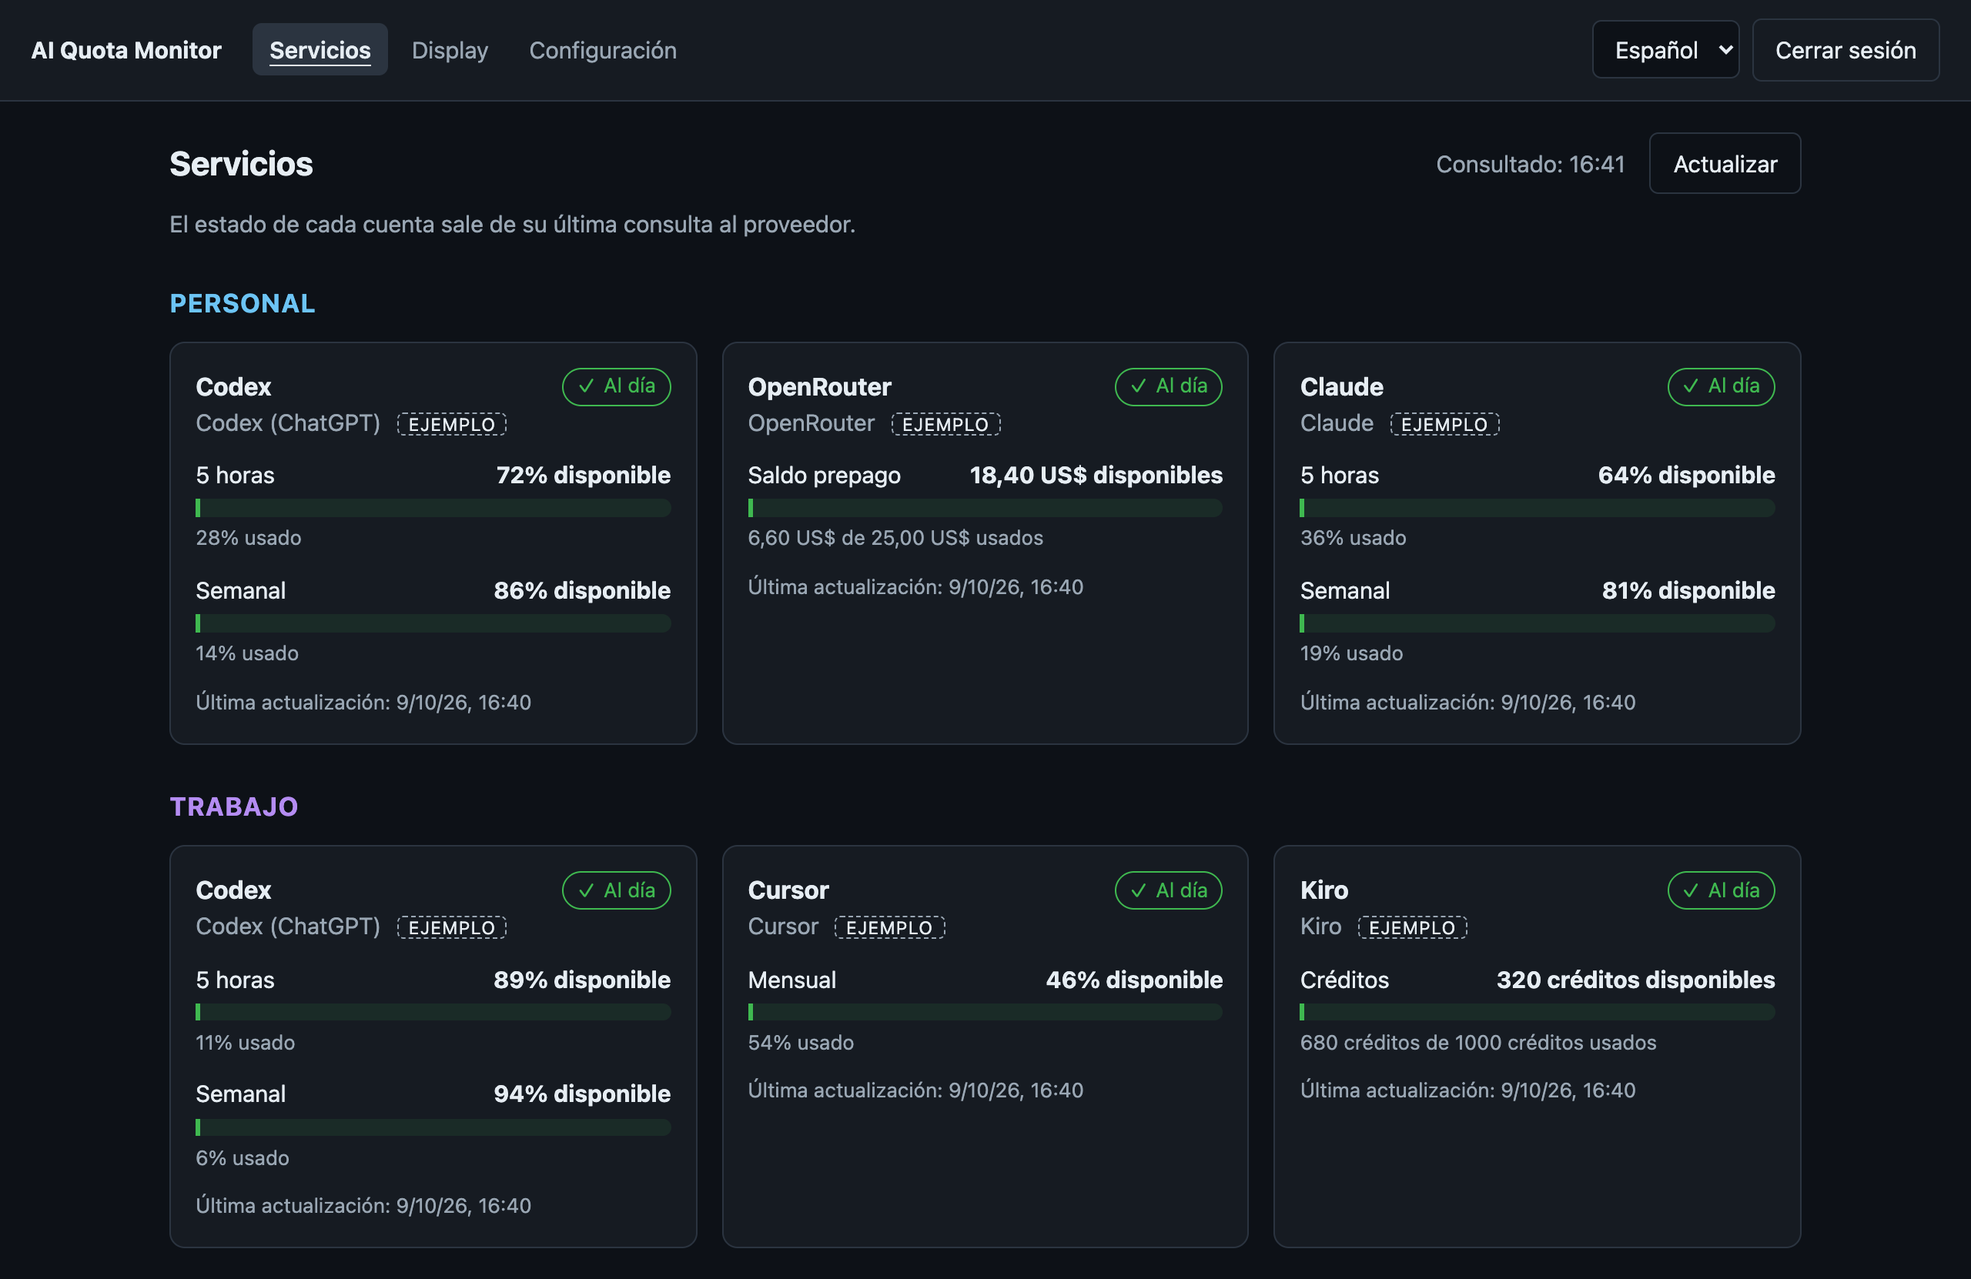
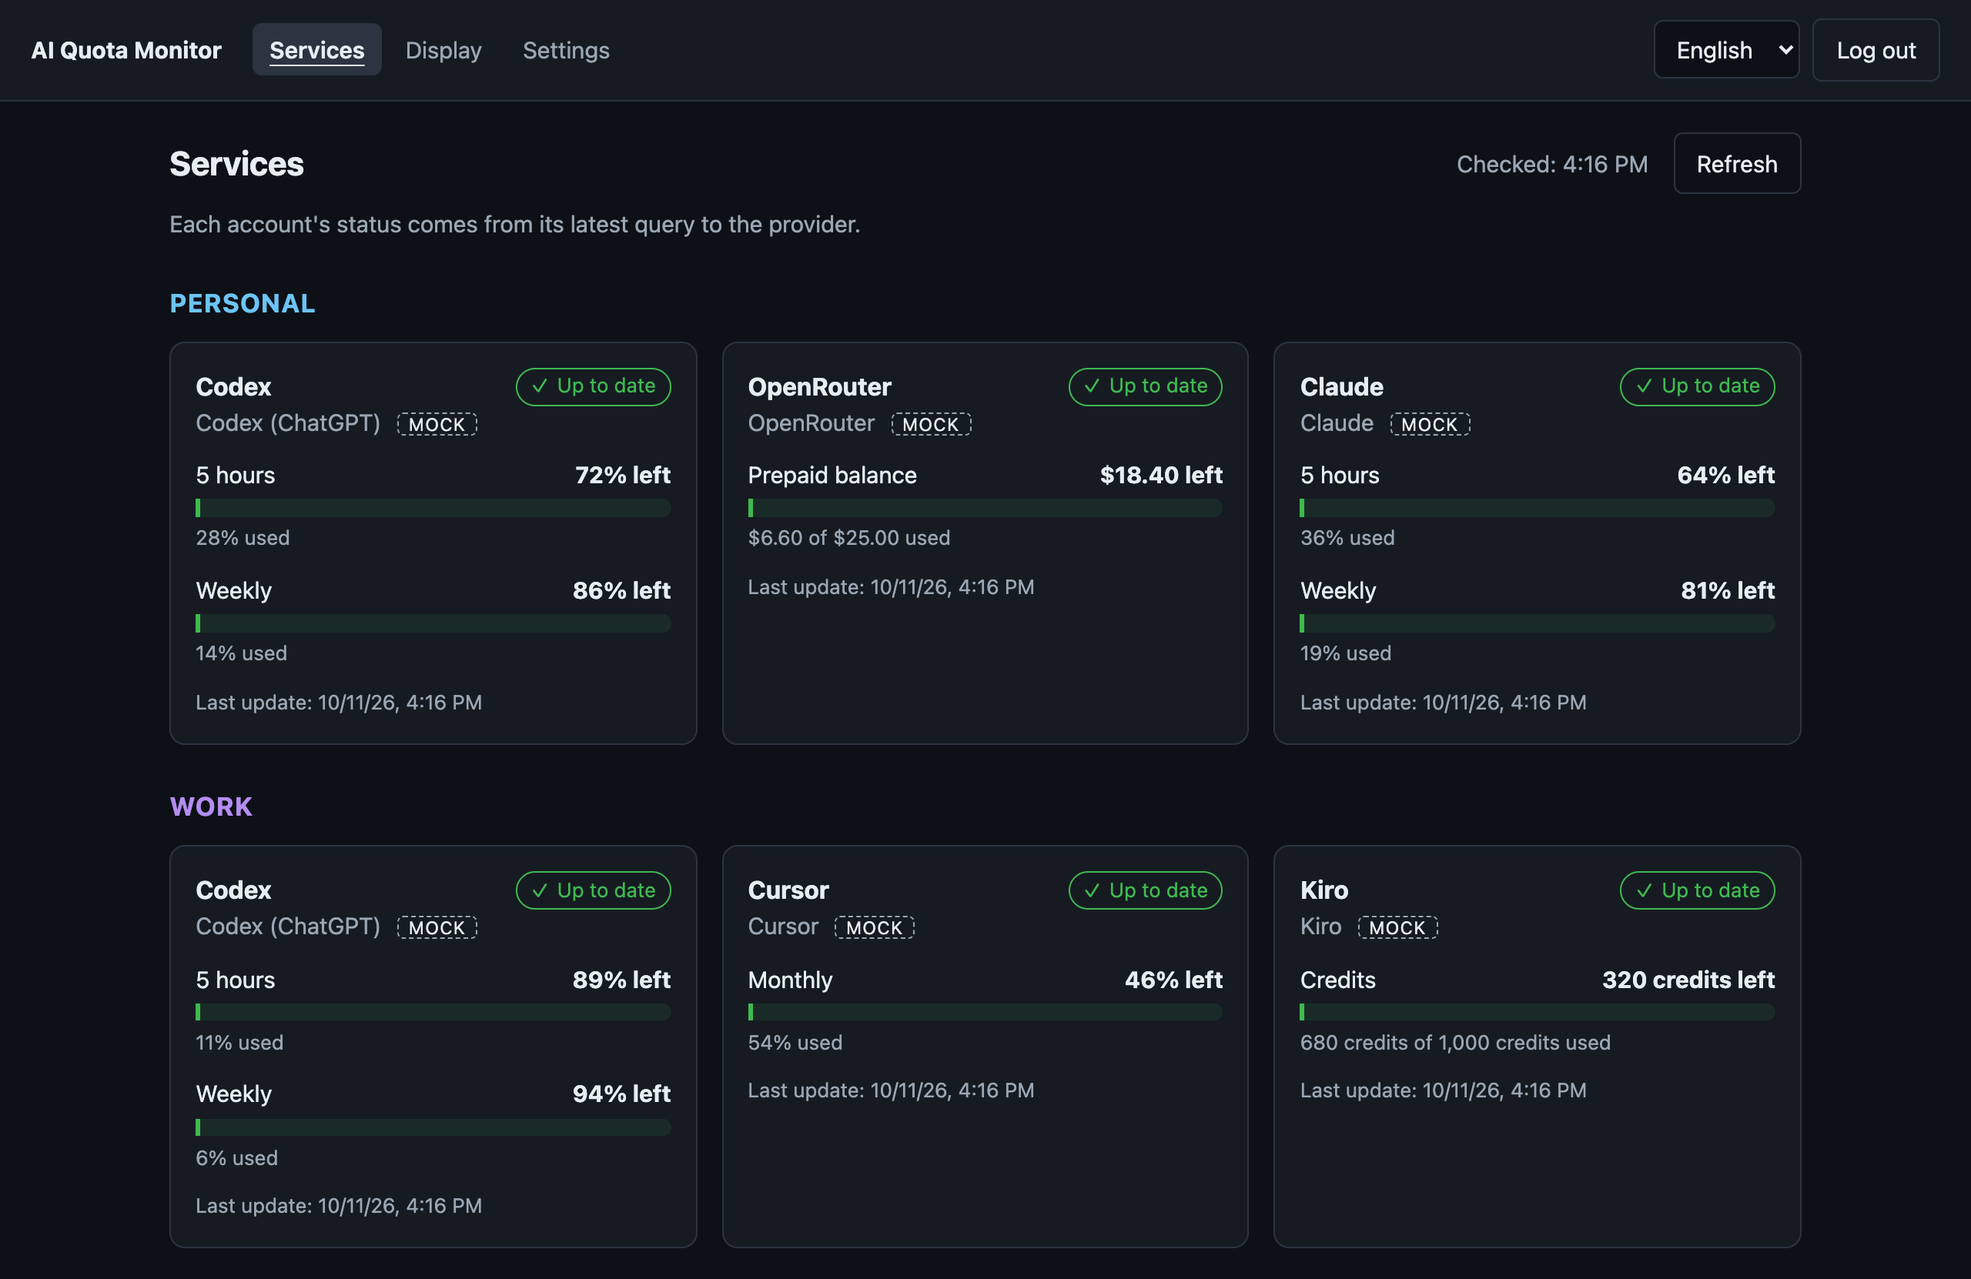
feat: add update model

diff --git a/enclosure/source/generate_model.py b/enclosure/source/generate_model.py
@@ -27,7 +27,9 @@ USB_HEIGHT=8.8
 USB_Z=FRONT+6.0
 USB_RIM_BACK=USB_Z+USB_HEIGHT/2+2.4
 LIGHT_Z,LIGHT_H = 5.2,1.6
-TILT_DEG = 12.0
+TILT_DEG = 25.0
+FOOT_LEVEL = 28.0
+SUPPORT_DEPTH = 36.0
 SLOPE = math.tan(math.radians(TILT_DEG))
 SHEAR = [[1,0,0,0],[0,1,SLOPE,0],[0,0,1,0]]
 
@@ -49,14 +51,12 @@ for side in [-1,1]:
 # Reinforced USB surround extends 2 mm beyond right arm.
 shape += box(-34,-30.5,-9,9,2.5,USB_RIM_BACK)
 for x in [-18,-6,6,18]:
-    shape += box(x-3,x+3,-24,-14.5,0,D)
+    shape += box(x-3,x+3,-FOOT_LEVEL,-14.5,0,D)
 # Rear foot joins all legs at their base; assembled support depth 28 mm.
 # Rear base follows the sloped contact plane while retaining 3 mm thickness.
-shape += box(-24,24,-24,-21,12,28).transform(SHEAR)
-# Clearance above rear foot permits withdrawing lid straight backward.
-shape -= box(-24.1,24.1,-15.8,-14,23,28.1)
+shape += box(-24,24,-FOOT_LEVEL,-FOOT_LEVEL+3,12,SUPPORT_DEPTH).transform(SHEAR)
 # Remove material below the tabletop contact plane from all four legs.
-shape -= box(-100,100,-100,-24,-10,100).transform(SHEAR)
+shape -= box(-100,100,-100,-FOOT_LEVEL,-10,100).transform(SHEAR)
 shape -= box(-CW/2,CW/2,-CH/2,CH/2,FRONT,D+1)
 shape -= box(LCD_X-LCD_W/2,LCD_X+LCD_W/2,-LCD_H/2,LCD_H/2,-1,FRONT+0.1)
 # BOOT/RST on long edges, near USB end. Broad tool/fingertip access.
@@ -101,15 +101,15 @@ def mesh(man):
     data=man.to_mesh()
     return trimesh.Trimesh(vertices=np.array(data.vert_properties)[:,:3],faces=np.array(data.tri_verts),process=True)
 # V6 is the exact opposite USB side from the printed V5 reference photo.
-parts={'carcasa':shape,'tapa':lid}
-report={'inclinacion_grados':TILT_DEG}
+parts={'housing':shape,'rear-cover':lid}
+report={'tilt_degrees':TILT_DEG}
 for name,man in parts.items():
     t=mesh(man)
     assert t.is_watertight and t.is_volume, name
     assert len(man.decompose())==1, name
     t.apply_translation([0,0,-t.bounds[0,2]])
     t.export(OUT/f'{name}.stl')
-    report[name]={'dimensiones_mm':t.extents.round(3).tolist(),'triangulos':len(t.faces),'volumen_mm3':round(float(t.volume),2),'cerrada':bool(t.is_watertight),'solidos':len(man.decompose())}
+    report[name]={'dimensions_mm':t.extents.round(3).tolist(),'triangles':len(t.faces),'volume_mm3':round(float(t.volume),2),'watertight':bool(t.is_watertight),'solids':len(man.decompose())}
 
 # Installed meshes for preview. Assembly preview is not a print file.
 cover=lid.translate((0,0,D))
@@ -135,31 +135,37 @@ assert (shape ^ cover.translate((0,0,0.6))).volume()>0.05
 cable_reference=box(-36,-PCB_W/2,-6,6,USB_Z-3,USB_Z+3)
 assert (shape ^ cable_reference).volume()<0.001
 assert (cover ^ cable_reference).volume()<0.001
-report['ensamble']={'interferencia_carcasa_tapa_mm3':round((shape^cover).volume(),5),
-                   'recorrido_corredizo_interferencias_mm3':withdraw,
-                   'espesor_guias_mm':RAIL_T,'holgura_z_tapa_mm':TRACK_Z-T,
-                   'usb_lado_opuesto_a_v5_impreso':USB_SIDE<0,
-                   'cavidad_mm':[CW,CH,D-FRONT],
-                   'modulo_medido_mm':[PCB_W,PCB_H,PCB_D],
-                   'holgura_profundidad_mm':0.3,
-                   'hueco_usb_mm':[USB_WIDTH,USB_HEIGHT]}
+report['assembly']={'housing_cover_intersection_mm3':round((shape^cover).volume(),5),
+                   'sliding_path_intersections_mm3':withdraw,
+                   'guide_thickness_mm':RAIL_T,'cover_depth_clearance_mm':TRACK_Z-T,
+                   'usb_opposite_side_from_printed_v5':USB_SIDE<0,
+                   'cavity_mm':[CW,CH,D-FRONT],
+                   'measured_module_mm':[PCB_W,PCB_H,PCB_D],
+                   'module_depth_clearance_mm':0.3,
+                   'usb_opening_mm':[USB_WIDTH,USB_HEIGHT]}
 # Check the real assembled contact plane, including every foot and rear base.
 vertices=mesh(shape).vertices
 angle=math.radians(TILT_DEG)
-heights=math.cos(angle)*(vertices[:,1]+24)-math.sin(angle)*vertices[:,2]
+heights=math.cos(angle)*(vertices[:,1]+FOOT_LEVEL)-math.sin(angle)*vertices[:,2]
 assert heights.min()>-1e-5
 contact=vertices[np.abs(heights)<1e-5]
 assert len(contact)>=12
-report['apoyo']={'altura_minima_mm':round(float(heights.min()),6),
-                 'vertices_coplanares':len(contact),'profundidad_apoyo_mm':round(28/math.cos(angle),3)}
-(OUT/'validacion.json').write_text(json.dumps(report,indent=2))
+report['support']={'minimum_height_mm':round(float(heights.min()),6),
+                 'coplanar_vertices':len(contact),'support_depth_mm':round(SUPPORT_DEPTH/math.cos(angle),3)}
+face_up_normal=np.array([0,math.cos(angle),math.sin(angle)])
+assert face_up_normal[2]>0
+floor_faces=mesh(shape).faces[np.all(np.abs(heights[mesh(shape).faces])<1e-5,axis=1)]
+assert len(floor_faces)>=8
+report['support']['screen_upward_tilt_degrees']=round(math.degrees(math.asin(face_up_normal[2])),3)
+report['support']['coplanar_contact_triangles']=len(floor_faces)
+(OUT/'validation.json').write_text(json.dumps(report,indent=2))
 
 # Render geometry directly; opaque orange shell and milk-white diffuser pieces.
 def upright(t):
     verts=t.vertices.copy()
     # The table plane becomes Z=0; screen normal points upward by TILT_DEG.
     c=math.cos(math.radians(TILT_DEG));s=math.sin(math.radians(TILT_DEG))
-    h=verts[:,1]+24
+    h=verts[:,1]+FOOT_LEVEL
     return np.column_stack((verts[:,0],-c*verts[:,2]-s*h,c*h-s*verts[:,2]))
 
 # Orthographic z-buffer renderer avoids painter-order artifacts on CAD cavities.
@@ -169,9 +175,9 @@ CANVAS=Image.new('RGB',(1920,920),'#ece9e4')
 def font(size):
     return ImageFont.truetype('/System/Library/Fonts/Supplemental/Arial.ttf',size)
 draw=ImageDraw.Draw(CANVAS)
-draw.text((960,40),'ESP32-C6 LCD 1.47 · v6 · USB opuesto a la pieza v5 impresa · 12°',font=font(32),fill='#292929',anchor='mm')
+draw.text((960,40),'ESP32-C6 LCD 1.47 · v7 · Desktop viewing angle · 25°',font=font(32),fill='#292929',anchor='mm')
 scene=[(shape,'#ed6b32'),(cover,'#d95023')]+[(box(LCD_X-LCD_W/2,LCD_X+LCD_W/2,-LCD_H/2,LCD_H/2,FRONT+0.12,FRONT+0.4),'#15232c')]
-for view,(cam,title) in enumerate([([-0.5,0.85,0.35],'Vista frontal · USB cambiado de lado'),([-1,0,0.12],'Paso USB · opuesto al v5 impreso'),([0.5,-0.85,0.35],'Tapa corrediza · guías gruesas')]):
+for view,(cam,title) in enumerate([([-0.5,0.85,0.35],'Front view · upward-facing display'),([-1,0,0.12],'Side view · 25° backward tilt'),([0.5,-0.85,0.35],'Sliding cover · reinforced guides')]):
     cam=np.array(cam);cam/=np.linalg.norm(cam)
     right=np.cross([0,0,1],cam);right/=np.linalg.norm(right)
     up=np.cross(cam,right)
@@ -206,6 +212,6 @@ for view,(cam,title) in enumerate([([-0.5,0.85,0.35],'Vista frontal · USB cambi
             d[visible]=z[visible]
     CANVAS.paste(Image.fromarray(pixels),(20+640*view,120))
     draw.text((320+640*view,110),title,font=font(23),fill='#292929',anchor='mm')
-draw.text((960,880),'Hueco USB y botones en el lado opuesto a tu v5 impreso · tapa corrediza',font=font(22),fill='#292929',anchor='mm')
-CANVAS.save(OUT/'vista_previa.png')
+draw.text((960,880),'25° backward tilt · Flat tabletop support · Sliding rear cover',font=font(22),fill='#292929',anchor='mm')
+CANVAS.save(OUT/'preview.png')
 print(json.dumps(report,indent=2))

diff --git a/enclosure/source/package_model.py b/enclosure/source/package_model.py
@@ -6,21 +6,21 @@ p=Path(__file__).resolve().parent
 ns='http://schemas.microsoft.com/3dmanufacturing/core/2015/02'
 E.register_namespace('',ns)
 def el(parent,tag,**kw): return E.SubElement(parent,'{'+ns+'}'+tag,kw)
-root=E.Element('{'+ns+'}model',{'unit':'millimeter','{http://www.w3.org/XML/1998/namespace}lang':'es-AR'})
-el(root,'metadata',name='Title').text='ESP32-C6 LCD 1.47 - v6 USB lado opuesto respecto de la pieza v5 impresa - tapa corrediza - medidas confirmadas - inclinacion 12 grados'
+root=E.Element('{'+ns+'}model',{'unit':'millimeter','{http://www.w3.org/XML/1998/namespace}lang':'en-US'})
+el(root,'metadata',name='Title').text='ESP32-C6 LCD 1.47 - v7 - USB opposite side from printed v5 - sliding rear cover - 25 degree backward tilt'
 resources=el(root,'resources');build=el(root,'build')
-for i,(name,(x,y)) in enumerate(zip(['carcasa','tapa'],[(50,50),(120,50)]),1):
+for i,(name,(x,y)) in enumerate(zip(['housing','rear-cover'],[(50,50),(120,50)]),1):
  t=trimesh.load_mesh(p/(name+'.stl'))
  ob=el(resources,'object',id=str(i),type='model',name=name)
  me=el(ob,'mesh');vs=el(me,'vertices');ts=el(me,'triangles')
  for v in t.vertices: el(vs,'vertex',x=f'{v[0]:.6f}',y=f'{v[1]:.6f}',z=f'{v[2]:.6f}')
  for tri in t.faces: el(ts,'triangle',v1=str(tri[0]),v2=str(tri[1]),v3=str(tri[2]))
  el(build,'item',objectid=str(i),transform=f'1 0 0 0 1 0 0 0 1 {x} {y} 0')
-with zipfile.ZipFile(p/'claude-esp32-v6_USB_LADO_OPUESTO.3mf','w',zipfile.ZIP_DEFLATED) as z:
+with zipfile.ZipFile(p/'claude-esp32-v7-tilted.3mf','w',zipfile.ZIP_DEFLATED) as z:
  z.writestr('[Content_Types].xml','<?xml version="1.0" encoding="UTF-8"?><Types xmlns="http://schemas.openxmlformats.org/package/2006/content-types"><Default Extension="rels" ContentType="application/vnd.openxmlformats-package.relationships+xml"/><Default Extension="model" ContentType="application/vnd.ms-package.3dmanufacturing-3dmodel+xml"/></Types>')
  z.writestr('_rels/.rels','<?xml version="1.0" encoding="UTF-8"?><Relationships xmlns="http://schemas.openxmlformats.org/package/2006/relationships"><Relationship Target="/3D/3dmodel.model" Id="rel0" Type="http://schemas.microsoft.com/3dmanufacturing/2013/01/3dmodel"/></Relationships>')
  z.writestr('3D/3dmodel.model',E.tostring(root,encoding='utf-8',xml_declaration=True))
-with zipfile.ZipFile(p/'claude-esp32-v6_USB_LADO_OPUESTO.zip','w',zipfile.ZIP_DEFLATED) as z:
+with zipfile.ZipFile(p/'claude-esp32-v7-tilted.zip','w',zipfile.ZIP_DEFLATED) as z:
  for f in p.iterdir():
   if f.suffix in ['.stl','.3mf','.txt','.png','.json','.py']: z.write(f,f.name)
-print('3MF y ZIP v6 generados')
+print('Created v7 3MF and ZIP files')

diff --git a/enclosure/README.es.md b/enclosure/README.es.md
@@ -2,7 +2,7 @@
 
 [English](README.md) · **Español**
 
-![Vista previa de la carcasa: frente con la pantalla horizontal, lateral con el USB-C y parte trasera con la tapa a presión](vista_previa.png)
+![Vista previa de la carcasa: frente con la pantalla horizontal, lateral con el USB-C y parte trasera con la tapa a presión](preview.png)
 
 Carcasa de escritorio para la [Waveshare ESP32-C6-LCD-1.47](../docs/hardware.es.md), versión 3: dos piezas, pantalla horizontal inclinada 12° hacia atrás y tapa a presión, sin tornillos. Va con el sketch [`ai_quota_monitor_horizontal`](../firmware/esp32-c6-lcd-1.47/README.es.md).
 
@@ -12,7 +12,7 @@ Estado: diseñada e impresa en una Bambu Lab A1 mini. La imagen es un render gen
 
 | Archivo | Para qué |
 |---|---|
-| [`stl/claude-esp32-v3.3mf`](stl/claude-esp32-v3.3mf) | Las dos piezas juntas, para abrir en Bambu Studio u otro laminador |
+| [`stl/claude-esp32-v6.3mf`](stl/claude-esp32-v6.3mf) | Las dos piezas juntas, para abrir en Bambu Studio u otro laminador |
 | [`stl/carcasa.stl`](stl/carcasa.stl) | Cuerpo: 66 × 39,5 × 28 mm |
 | [`stl/tapa.stl`](stl/tapa.stl) | Tapa trasera con las trabas: 51 × 31 × 12 mm |
 | [`source/generar_modelo.py`](source/generar_modelo.py) | Modelo paramétrico: genera los STL, la vista previa y `validacion.json` |
@@ -33,7 +33,7 @@ Los STL están en milímetros y a escala 100 %.
 
 ## Impresión
 
-1. Abrí `stl/claude-esp32-v3.3mf` en el laminador, como geometría. Contiene solo la carcasa y la tapa: elegí impresora, filamento y perfil.
+1. Abrí `stl/claude-esp32-v6.3mf` en el laminador, como geometría. Contiene solo la carcasa y la tapa: elegí impresora, filamento y perfil.
 2. Mantené la escala en 100 %.
 3. La carcasa se imprime con el frente hacia la cama; la tapa, con la cara exterior plana hacia la cama.
 4. Revisá en el laminado los puentes de la abertura del USB y las rampas chicas de los ganchos.
@@ -57,7 +57,7 @@ python3 enclosure/source/generar_modelo.py
 python3 enclosure/source/empaquetar.py
 ```
 
-El primer script reescribe `stl/carcasa.stl`, `stl/tapa.stl`, `vista_previa.png` y `source/validacion.json`; el segundo, `stl/claude-esp32-v3.3mf`. La vista previa usa la fuente Arial de macOS.
+El primer script reescribe `stl/carcasa.stl`, `stl/tapa.stl`, `preview.png` y `source/validacion.json`; el segundo, `stl/claude-esp32-v6.3mf`. La vista previa usa la fuente Arial de macOS.
 
 ## Qué se verificó
 

diff --git a/enclosure/README.md b/enclosure/README.md
@@ -2,7 +2,7 @@
 
 **English** · [Español](README.es.md)
 
-![Enclosure preview: front with the horizontal screen, side with the USB-C port and back with the snap-fit lid](vista_previa.png)
+![Enclosure preview: front with the horizontal screen, side with the USB-C port and back with the snap-fit lid](preview.png)
 
 Desk enclosure for the [Waveshare ESP32-C6-LCD-1.47](../docs/hardware.md), version 3: two parts, horizontal screen tilted 12° backwards and a snap-fit lid, without screws. It goes with the [`ai_quota_monitor_horizontal`](../firmware/esp32-c6-lcd-1.47/README.md) sketch.
 
@@ -12,7 +12,7 @@ Status: designed and printed on a Bambu Lab A1 mini. The image is a render produ
 
 | File | Purpose |
 |---|---|
-| [`stl/claude-esp32-v3.3mf`](stl/claude-esp32-v3.3mf) | Both parts together, to open in Bambu Studio or another slicer |
+| [`stl/claude-esp32-v6.3mf`](stl/claude-esp32-v6.3mf) | Both parts together, to open in Bambu Studio or another slicer |
 | [`stl/carcasa.stl`](stl/carcasa.stl) | Body: 66 × 39.5 × 28 mm |
 | [`stl/tapa.stl`](stl/tapa.stl) | Back lid with the clips: 51 × 31 × 12 mm |
 | [`source/generar_modelo.py`](source/generar_modelo.py) | Parametric model: generates the STL files, the preview and `validacion.json` |
@@ -33,7 +33,7 @@ The STL files are in millimeters, at 100% scale.
 
 ## Printing
 
-1. Open `stl/claude-esp32-v3.3mf` in the slicer, as geometry. It contains only the body and the lid: choose printer, filament and profile.
+1. Open `stl/claude-esp32-v6.3mf` in the slicer, as geometry. It contains only the body and the lid: choose printer, filament and profile.
 2. Keep the scale at 100%.
 3. The body prints with its front on the bed; the lid, with its flat outer face on the bed.
 4. Check the bridges of the USB opening and the small ramps of the hooks in the sliced preview.
@@ -57,7 +57,7 @@ python3 enclosure/source/generar_modelo.py
 python3 enclosure/source/empaquetar.py
 ```
 
-The first script rewrites `stl/carcasa.stl`, `stl/tapa.stl`, `vista_previa.png` and `source/validacion.json`; the second one, `stl/claude-esp32-v3.3mf`. The preview uses the macOS Arial font.
+The first script rewrites `stl/carcasa.stl`, `stl/tapa.stl`, `preview.png` and `source/validacion.json`; the second one, `stl/claude-esp32-v6.3mf`. The preview uses the macOS Arial font.
 
 ## What was verified
 

diff --git a/docs/panel.md b/docs/panel.md
@@ -14,26 +14,27 @@ Spanish and English, with a selector; the choice is saved in the browser. Spanis
 
 ## Screenshots
 
-Taken from the real panel with demo data; they show no real accounts or credentials. The interface is in Spanish, its default language.
+Taken from the real panel with demo data; they show no real accounts or credentials. The interface is in English; the panel also has Spanish, its default language.
 
 ![Services dashboard](assets/panel-dashboard.png)
 
-*Services, with the six fictitious accounts of example mode. The `EJEMPLO` tag marks `source: mock` accounts.*
+*Services, with the six fictitious accounts of example mode. The `MOCK` tag marks `source: mock` accounts.*
 
 ![Display preview](assets/panel-display.png)
 
-*Display: preview of the 172 × 320 px screen, at 2× scale, with the same example accounts.*
+*Display: preview of the 172 × 320 px screen, at 2× scale, with the same example accounts. The other layouts show one account per page, in portrait or landscape.*
 
 ![Settings](assets/panel-settings.png)
 
-*Settings, with the accounts of `config.live.json` and no session started or credential loaded.*
+*Settings, with the accounts of `config.live.json` and no session started or credential loaded. The account names come from that file.*
 
 To regenerate them, from the repo root:
 
 1. Create a test user with `make panel-password` and set `MASTER_KEY`.
 2. For Services and Display, start with `CONFIG_NAME=config.json` (example mode) and `make run`.
 3. For Settings, start with `CONFIG_NAME=config.live.json`, an empty `DATA_DIR` folder, the credential variables empty and `CODEX_BIN` pointing to a nonexistent path, so no real account is used.
-4. Capture each view with the browser 1280 px wide and save the PNG files in `docs/assets/` under the same names.
+4. Choose **English** in the language selector of the panel.
+5. Capture each view with the browser 1280 px wide and save the PNG files in `docs/assets/` under the same names.
 
 Check that no screenshot shows tokens, keys, emails or real accounts.
 

diff --git a/docs/panel.es.md b/docs/panel.es.md
@@ -14,15 +14,15 @@ Español e inglés, con selector; la elección se guarda en el navegador. El idi
 
 ## Capturas
 
-Tomadas del panel real con datos de demostración; no muestran cuentas ni credenciales reales.
+Tomadas del panel real con datos de demostración; no muestran cuentas ni credenciales reales. La interfaz está en inglés; el panel también está en español, su idioma por defecto.
 
 ![Tablero de servicios](assets/panel-dashboard.png)
 
-*Servicios, con las seis cuentas ficticias del modo de ejemplo. La etiqueta `EJEMPLO` marca las cuentas `source: mock`.*
+*Servicios, con las seis cuentas ficticias del modo de ejemplo. La etiqueta `MOCK` (`EJEMPLO` con el panel en español) marca las cuentas `source: mock`.*
 
 ![Vista previa del display](assets/panel-display.png)
 
-*Display: vista previa de la pantalla de 172 × 320 px, a escala 2×, con las mismas cuentas de ejemplo.*
+*Display: vista previa de la pantalla de 172 × 320 px, a escala 2×, con las mismas cuentas de ejemplo. Los otros diseños muestran una cuenta por página, en vertical u horizontal.*
 
 ![Configuración](assets/panel-settings.png)
 
@@ -33,7 +33,8 @@ Para regenerarlas, desde la raíz del repo:
 1. Creá un usuario de prueba con `make panel-password` y definí `MASTER_KEY`.
 2. Para Servicios y Display, arrancá con `CONFIG_NAME=config.json` (modo de ejemplo) y `make run`.
 3. Para Configuración, arrancá con `CONFIG_NAME=config.live.json`, una carpeta `DATA_DIR` vacía, las variables de credenciales vacías y `CODEX_BIN` apuntando a una ruta inexistente, así no se usa ninguna cuenta real.
-4. Capturá cada vista con el navegador a 1280 px de ancho y guardá los PNG en `docs/assets/` con los mismos nombres.
+4. Elegí **English** en el selector de idioma del panel.
+5. Capturá cada vista con el navegador a 1280 px de ancho y guardá los PNG en `docs/assets/` con los mismos nombres.
 
 Revisá que ninguna captura muestre tokens, keys, emails ni cuentas reales.
 
